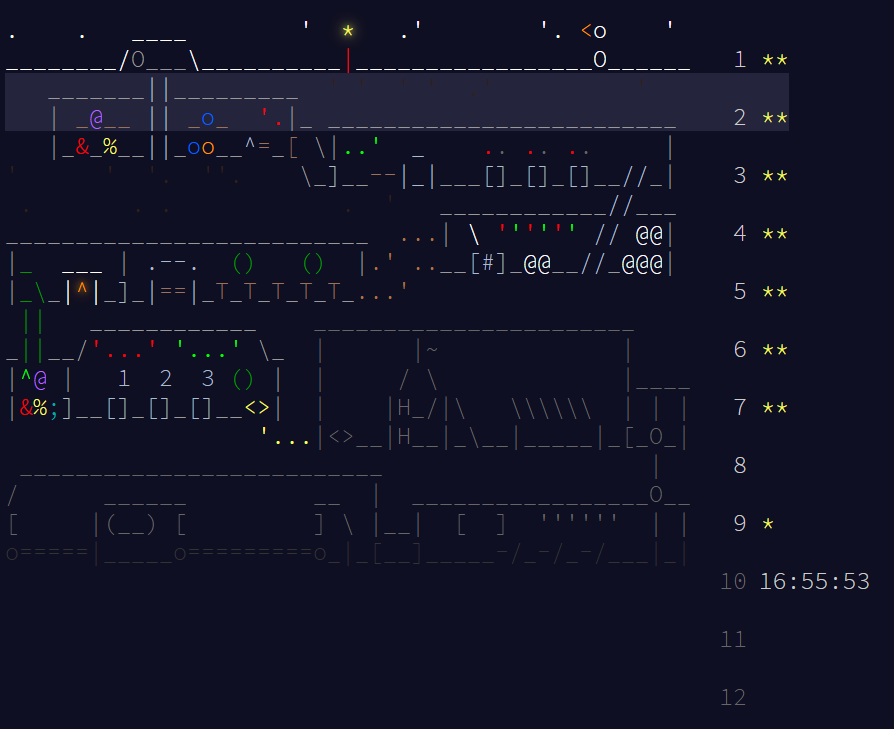
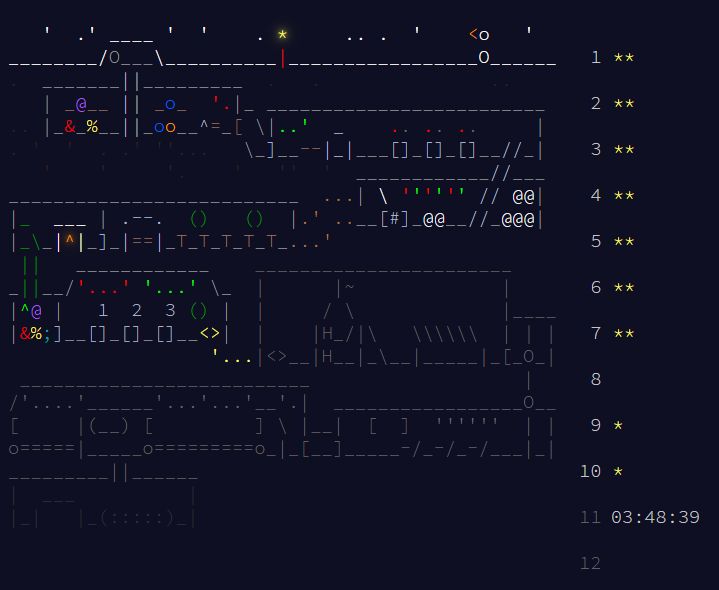
readme update

diff --git a/src/Main.java b/src/Main.java
@@ -801,7 +801,7 @@ public class Main {
     //todo do 9-2
 
     public static void d10p1() throws IOException {
-        BufferedReader fileReader = new BufferedReader(new FileReader("data/day-10-input.txt"));
+        BufferedReader fileReader = new BufferedReader(new FileReader("data/day-10-sample.txt"));
         ArrayList<IndicatorLight> indicatorLights = new ArrayList<>();
         ArrayList<Integer> results = new ArrayList<>();
         int finalSum = 0;
@@ -812,7 +812,7 @@ public class Main {
         }
         fileReader.close();
         for(int i = 0; i < indicatorLights.size(); i++){
-            int r = indicatorLights.get(i).minPress();
+            int r = indicatorLights.get(i).minPress(true);
             results.add(r);
             finalSum+=r;
         }
@@ -938,8 +938,8 @@ class IndicatorLight{
         }
     }
 
-    //todo i know this is really inefficient but
-    public int minPress(){
+    //todo i know this is really inefficient but - make more efficient for 10-2
+    public int minPress(boolean careAboutJoltage){
         ArrayList<ArrayList<ArrayList<Integer>>> testSequences = new ArrayList<>();
         for(int i = 0; i < buttonSequences.size(); i++){
             ArrayList<ArrayList<Integer>> ts = new ArrayList<>();
@@ -951,13 +951,15 @@ class IndicatorLight{
                 ArrayList<ArrayList<Integer>> testSequence = testSequences.get(i);
                 //System.out.println(Arrays.toString(testSequence.toArray()));
                 boolean[] testLights = new boolean[finalState.length];
+                int[] testJoltages = new int[joltages.size()];
                 for(int j = 0; j < testSequence.size(); j++){
                     ArrayList<Integer> lights = testSequence.get(j);
                     for(int k = 0; k < lights.size(); k++){
                         testLights[lights.get(k)] = !testLights[lights.get(k)];
+                        testJoltages[lights.get(k)]++;
                     }
                 }
-                if(Arrays.toString(testLights).equals(Arrays.toString(finalState))){
+                if(Arrays.toString(testLights).equals(Arrays.toString(finalState)) && (careAboutJoltage && Arrays.toString(testJoltages).equals(Arrays.toString(joltages.toArray())))){
                     return testSequence.size();
                 }
             } //if we're out of this then it means nothing worked

diff --git a/readme.md b/readme.md
@@ -1,5 +1,5 @@
 You can read more about Advent of Code [here](https://adventofcode.com/2025/about)
 
-My current progress as of 12/9/2025 7:05 AM EST (Day 9)
+My current progress as of 12/10/2025 8:11 PM EST (Day 10)
 
 ![Progress](img/progress.png "screenshot of the advent of code homepage showing my progress")
